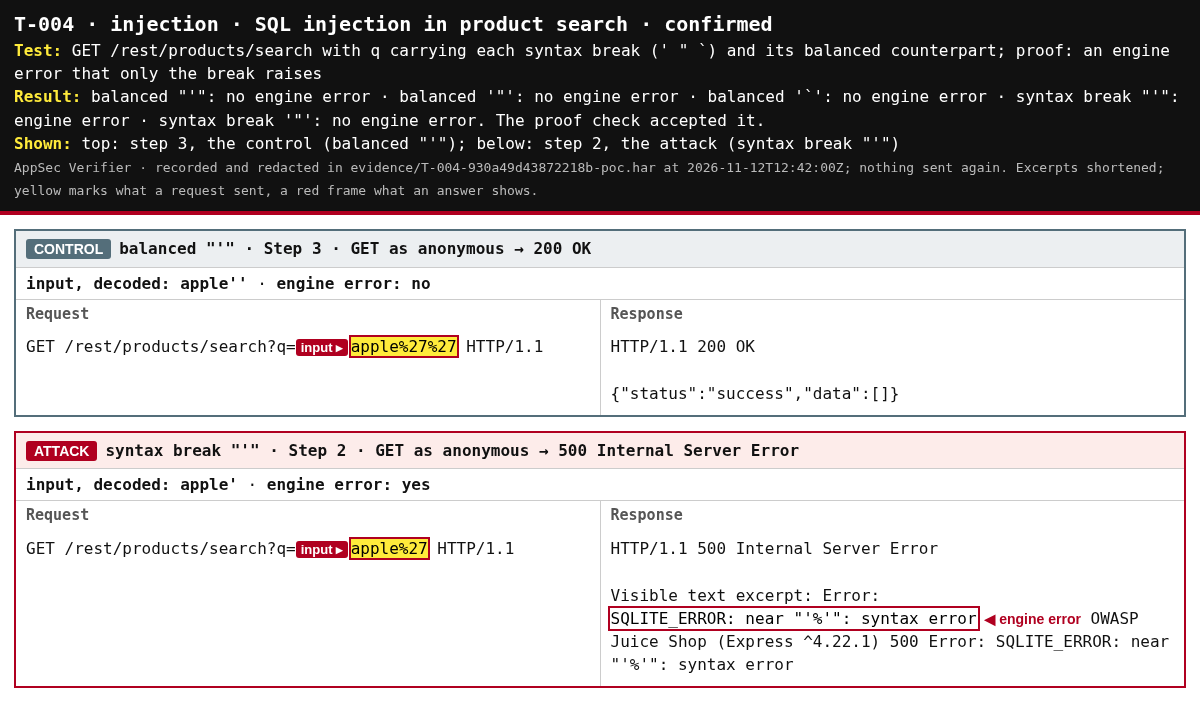
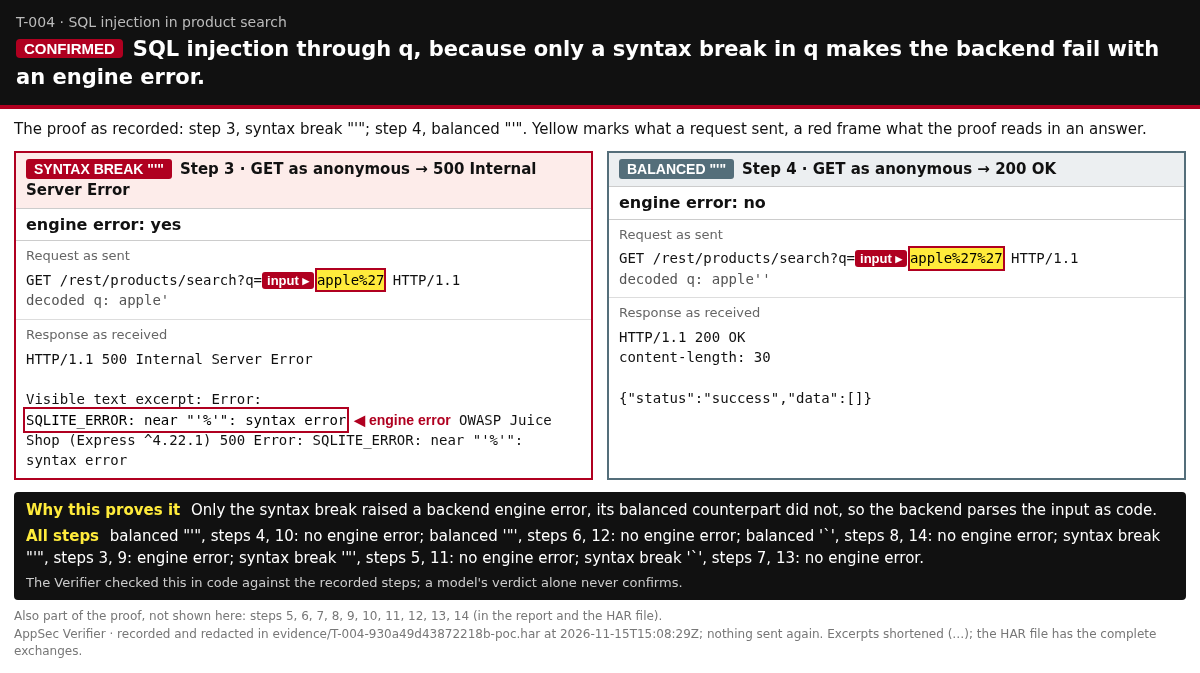
docs: show current evidence images in the README and reword it plainly
"What it verifies" showed the NoSQL injection evidence image in the old
layout. It now shows the Juice Shop SQL injection image in the current
layout (T-004 http-1, replaced in the example result as well) and a
reflected XSS in DVWA: the proof browser's screenshot and the HTTP image,
kept under examples/dvwa/result/evidence/. A sentence and the alt text of
each image say what it shows.

The whole README is reworded in plain sentences: clause chains split,
repeated formulas and internal terms dropped, the request lookup said once.
Limitations names DVWA, against which live runs have been made as well.
That cookie checks can observe form-login responses stays in docs/cli.md.

Why: the README showed an outdated image and read like generated text.

diff --git a/README.md b/README.md
@@ -6,51 +6,57 @@
 [![License](https://img.shields.io/badge/license-Apache%202.0-blue.svg)](LICENSE)
 
 > [!NOTE]
-> **Alpha.** Early version, actively developed. Feedback from real-world projects welcome.
+> **Alpha.** Early version under active development. Feedback from real projects is welcome.
 
 AppSec Verifier tests whether the findings of a static security assessment hold up in the running application. It reads the `appsec-assessment.yaml` written by [AppSec Analyzer](https://github.com/appsec-foundry/appsec-analyzer), tests the selected findings against a target you are authorised to test, and reports for each finding whether the weakness can be reproduced.
 
-An AI agent plans the test steps. The Verifier sends every request itself, only within the scope you define, and counts a finding as confirmed only when the proof passes a check in code. It tests only the findings it is given: it does not search for new weaknesses, chain exploits or extract data.
+An AI agent plans the test steps. The Verifier sends every request itself and stays within the scope you define. A finding counts as confirmed only if its proof passes a check in the Verifier's code. The Verifier tests the findings it is given and does not look for new weaknesses, chain exploits or extract data.
 
 [![Console output of a run against OWASP Juice Shop: the test agent tests a NoSQL injection finding, the proof check passes and the finding is confirmed](examples/juice-shop/result/console-T-033.png)](examples/juice-shop/result/console.log.md)
 
-A run against OWASP Juice Shop: [console log](examples/juice-shop/result/console.log.md), [report](examples/juice-shop/result/verification.md).
+The [console log](examples/juice-shop/result/console.log.md) and the [report](examples/juice-shop/result/verification.md) of this run against OWASP Juice Shop are in the examples.
 
 ## Quick start
 
-You need Python 3.10 or later, [pipx](https://pipx.pypa.io/stable/), an assessment from AppSec Analyzer, and the Claude CLI (`claude`), installed and logged in. Other models are listed under [Model profiles](#model-profiles).
+You need Python 3.10 or later, [pipx](https://pipx.pypa.io/stable/), an assessment from AppSec Analyzer and the Claude CLI (`claude`) with a login. Other models are listed under [Model profiles](#model-profiles).
 
 ```sh
 pipx install git+https://github.com/appsec-foundry/appsec-verifier.git
 appsec-verifier ./out/appsec-assessment.yaml
 ```
 
-The guided run asks for the target URL, shows which findings it can test and what the others still need, and starts after your confirmation. By default it tests findings of severity high and above with the `claude` profile. Each run writes its report to a new private directory, which the run names at its start and end ([Output](#output)).
+The guided run asks for the target URL, shows which findings it can test and what the others still need, and starts after you confirm. By default it tests findings of severity high and above with the `claude` profile. Each run writes its report to a new private directory and prints its path at the start and at the end ([Output](#output)).
 
-XSS findings also need the proof browser ([Install](#install)), access-control comparisons usually need test accounts ([Scope and test accounts](#scope-and-test-accounts)). To try the Verifier, run OWASP Juice Shop locally (`docker run --rm -p 3000:3000 bkimminich/juice-shop`) and use the files in [`examples/juice-shop/`](examples/juice-shop/).
+XSS findings also need the proof browser ([Install](#install)), and access-control tests usually need test accounts ([Scope and test accounts](#scope-and-test-accounts)). To try the Verifier, start OWASP Juice Shop locally with `docker run --rm -p 3000:3000 bkimminich/juice-shop` and use the files in [`examples/juice-shop/`](examples/juice-shop/).
 
 ## What it verifies
 
-The agent takes request details the assessment leaves open from the source code and from forms and links on the target ([test planning](docs/cli.md#test-planning-by-the-agent-ver-043)). A finding counts as `confirmed` only with the proof below; the model's verdict alone never suffices. [How verification works](docs/how-verification-works.md) follows one finding through every step.
+Where the assessment leaves a request or its details open, the agent looks them up in the source code and in the forms and links of the target ([test planning](docs/cli.md#test-planning-by-the-agent-ver-043), [request derivation](docs/cli.md#continuous-control-ver-036)). A finding counts as `confirmed` only with the proof in the table below; the model's verdict is never enough on its own. [How verification works](docs/how-verification-works.md) follows one finding through every step.
 
 | Weakness | Confirmed when |
 | --- | --- |
 | Cross-site scripting | a marker script runs in the proof browser; reflected text does not count |
-| Access control: IDOR, missing authorisation or authentication, exposed information and files | a checked access comparison violates an independently declared restriction; matching responses alone do not suffice |
-| SQL, NoSQL and LDAP injection | the response follows true and false conditions the Verifier generates (a field, a page text or a login), an injected marker comes back (SQL), or a malformed input provokes a database error (SQL, NoSQL); a delay alone never counts |
-| Command, code, template and XPath injection | the target returns the result of arithmetic the Verifier generates, a malformed input provokes an engine error (not for commands), or, for code and template injection, the payload makes the target call a callback listener |
+| Access control: IDOR, missing authorisation or authentication, exposed information and files | a checked access comparison breaks an independently declared restriction; matching responses are not enough |
+| SQL, NoSQL and LDAP injection | the response follows true and false conditions the Verifier generates (in a field, a page text or a login), an injected marker comes back (SQL), or a malformed input causes a database error (SQL, NoSQL); a delay is never enough |
+| Command, code, template and XPath injection | the target returns the result of a calculation the Verifier generates, a malformed input causes an engine error (not for commands), or, for code and template injection, the payload makes the target call a callback listener |
 | Path traversal | the target returns the scope's marker file, or a file from an uploaded ZIP can be read outside the directory it is unpacked to |
 | Open redirect | the target redirects to a random host under `.invalid` |
 | SSRF | the target calls a callback listener |
 | Session cookie without Secure, HttpOnly or SameSite | the session cookie repeatedly lacks the attribute (SameSite: Lax or Strict) |
 
-Some classes need preparation: XSS the proof browser, access control test accounts and an access restriction, declared in the scope or taken from the findings with `--accept-finding-restrictions`, SSRF and blind injection a listener the target can reach (started automatically for a `localhost` target), path traversal a marker file, session cookies the cookie's name in the scope. The guided run can collect access declarations for this run; `preflight` names missing preparation. Declared anonymous exposure needs no reference account, cookie checks can observe form-login responses, and login-bypass injection needs a protected follow-up resource. The exact rules are in [Proof per class](docs/cli.md#proof-per-class-ver-009-to-ver-013), the CWEs of each class in [`data/verifiable-cwes.yaml`](data/verifiable-cwes.yaml).
+Some classes need preparation. XSS needs the proof browser. Access-control tests need test accounts and an access restriction, declared in the scope or taken from the findings with `--accept-finding-restrictions`; a declared anonymous exposure needs no account. SSRF and blind injection need a listener the target can reach, which starts automatically for a `localhost` target. Path traversal needs a marker file. Session-cookie checks need the cookie's name in the scope, and login-bypass injection a protected resource to try the obtained login on. The guided run can collect access declarations for the run; `preflight` reports what is still missing. The exact rules are in [Proof per class](docs/cli.md#proof-per-class-ver-009-to-ver-013), the CWEs of each class in [`data/verifiable-cwes.yaml`](data/verifiable-cwes.yaml).
 
-The agent can resolve missing requests from recorded source and application evidence, including browser request workflows and literal page includes ([request derivation](docs/cli.md#continuous-control-ver-036)); the report shows the requests each verdict rests on. The evidence image of the NoSQL injection above:
+The report shows the requests each verdict rests on. The evidence images show the recorded requests and responses and mark the parts the proof depends on. In this SQL injection in Juice Shop, a single quote in the search parameter `q` causes a database error and two quotes do not:
 
-![Evidence image of the NoSQL injection finding: the false condition returns 0 review entries, the true condition 2](examples/juice-shop/result/evidence/T-033-c23d5ea977c2e5ab-nosql-injection-in-product-reviews-where-http-1.png)
+![Evidence image of a SQL injection in OWASP Juice Shop: q=apple' gets status 500 with an SQLITE_ERROR, q=apple'' gets 200 with an empty result](examples/juice-shop/result/evidence/T-004-930a49d43872218b-sql-injection-in-product-search-http-1.png)
 
-Each finding ends with one of these verdicts. A negative verdict covers only the request and variant that were tested; different variants continue after a confirmation.
+The two images of a reflected XSS in DVWA come from separate runs. The first is the proof browser's screenshot. The injected script opened a dialog, which the Verifier draws in from the recorded `alert()` call because browser dialogs do not appear in screenshots. The second shows the request with the script in the `name` parameter and the response that contains it unescaped.
+
+![Screenshot of a reflected XSS in DVWA: the dialog shows the marker the injected script assembled at runtime, and the element holding the payload is framed](examples/dvwa/result/evidence/T-001-d55fa17ca0781db4-reflected-xss-from-unescaped-output.png)
+
+![Evidence image of a reflected XSS in DVWA: the GET request carries a script in name, the response contains it unescaped, and the script ran in the proof browser](examples/dvwa/result/evidence/T-001-f36fb935b55957ee-reflected-xss-from-unescaped-output-http-1.png)
+
+Each finding gets one of these verdicts. A negative verdict applies only to the request and variant that were tested. After one variant of a finding is confirmed, its other variants are still tested within the run's limits.
 
 | Verdict | Meaning |
 | --- | --- |
@@ -62,18 +68,18 @@ Each finding ends with one of these verdicts. A negative verdict covers only the
 
 ## Safety
 
-`verify` sends attack requests to a running system. These rules are enforced in code, not left to the model:
+`verify` sends attack requests to a running system. The Verifier's code enforces the following rules, and the model cannot change them:
 
-- Only the hosts, ports, paths and schemes in the scope are contacted, only within its test period, and never cloud metadata addresses.
+- The Verifier contacts only the hosts, ports, paths and schemes in the scope, only during its test period, and never cloud metadata addresses.
 - The run shows its test plan and waits for your confirmation before the first request.
-- Only GET, HEAD and OPTIONS by default. Write requests, needed for stored XSS and some access-control tests, require `--allow-intrusive` or your yes in the terminal; DELETE is never sent. Records the Verifier creates stay on the target, so allow writes only on an instance you can reset.
-- Requests, request rate, model calls, cost and run time are capped ([defaults](data/limits.yaml)); all variants and reviews of a finding share its cost allowance.
+- By default only GET, HEAD and OPTIONS are sent. Write requests, which stored XSS and some access-control tests need, require `--allow-intrusive` or your yes in the terminal. DELETE is never sent. Records the Verifier creates stay on the target, so allow writes only on an instance you can reset.
+- Requests, request rate, model calls, cost and run time have limits ([defaults](data/limits.yaml)). The variants and reviews of a finding share one cost allowance.
 - Passwords and tokens come from environment variables or hidden input. They are not stored and never reach the model, the logs or the report.
-- The agent proposes one step at a time, and the Verifier checks each step before it runs it. The agent has no shell and cannot write files; with `--source` it reads the target's source code, but not `.env` files, keys or `.git/`. It sees the target's responses and screenshots, which can contain target data.
+- The agent proposes one step at a time, and the Verifier checks each step before running it. The agent has no shell and cannot write files. With `--source` it reads the target's source code, except `.env` files, keys and `.git/`. It does see the target's responses and screenshots, which can contain target data.
 
 ## Scope and test accounts
 
-Without a scope file the Verifier tests only the scheme, host and port of the target URL, read-only. A scope file allows more, such as several hosts, private networks or a proxy, and records the test period and who is responsible. The guided run uses a `scope.yaml` next to the assessment or in the working directory; `--scope` names another.
+Without a scope file the Verifier tests only the scheme, host and port of the target URL, read-only. A scope file allows more, such as several hosts, private networks or a proxy, and records the test period and who is responsible. The guided run uses a `scope.yaml` next to the assessment or in the working directory; `--scope` points to a different one.
 
 ```yaml
 # scope.yaml
@@ -83,9 +89,9 @@ window: {from: "2026-11-01T00:00:00Z", until: "2026-11-30T23:59:59Z"}
 owner: {name: Your Name}
 ```
 
-For an HTML login form or a login that answers a JSON POST with a token, name the accounts on the command line, for example `--account jim@juice-sh.op --account bender@juice-sh.op`; the Verifier asks for the passwords with hidden input and, without `--login-url`, signs in at the login the assessment names or the login form the target URL leads to. Other logins go into an `identities.yaml` that names environment variables, never the passwords themselves: bearer token, basic, form login, headers copied from the browser, OIDC (sign-in in your browser, device code, client credentials, password grant) or a login program.
+If the target has an HTML login form or a login that returns a token for a JSON POST, name the accounts on the command line, for example `--account jim@juice-sh.op --account bender@juice-sh.op`. The Verifier asks for the passwords with hidden input. Without `--login-url` it signs in at the login the assessment names or at the login form the target URL leads to. Other kinds of login go into an `identities.yaml`, which names environment variables and never contains the passwords themselves. It supports bearer tokens, basic authentication, form login, headers copied from the browser, OIDC (sign-in in your browser, device code, client credentials, password grant) and login programs.
 
-Reference: [scope file](docs/cli.md#scope-file--scopeyaml-authorisation-ver-001), [identities file](docs/cli.md#identities-file--identitiesyaml-sessions-ver-016028040), [accounts on the command line](docs/cli.md#test-accounts-on-the-command-line-ver-041). Examples: [`juice-shop/`](examples/juice-shop/) (local target, form login), [`sso-proxy/`](examples/sso-proxy/) (target behind a company proxy, SSO sign-in in the browser), [`login-program/`](examples/login-program/) (form with a CSRF token).
+Details: [scope file](docs/cli.md#scope-file--scopeyaml-authorisation-ver-001), [identities file](docs/cli.md#identities-file--identitiesyaml-sessions-ver-016028040), [accounts on the command line](docs/cli.md#test-accounts-on-the-command-line-ver-041). Examples: [`juice-shop/`](examples/juice-shop/) (local target, form login), [`sso-proxy/`](examples/sso-proxy/) (target behind a company proxy, SSO sign-in in the browser), [`login-program/`](examples/login-program/) (form with a CSRF token).
 
 ## Model profiles
 
@@ -101,7 +107,7 @@ Choose the model with `--profile`, as in AppSec Analyzer.
 
 The CLIs run without tools, MCP servers, settings or session history. Using a subscription is subject to the provider's terms for that plan.
 
-The console shows model costs with API billing, including reported prompt-cache reads and writes; see [caching and costs](docs/cli.md#output-mode-and-run-mode). With a Claude subscription, `--show-costs` shows what the calls would cost at API prices; this does not change the cost limit. Prices: [`data/model-catalog.yaml`](data/model-catalog.yaml) (OpenAI), [`data/anthropic-model-catalog.yaml`](data/anthropic-model-catalog.yaml) (Anthropic API).
+With API billing the console shows the model costs, including the prompt-cache reads and writes the provider reports ([caching and costs](docs/cli.md#output-mode-and-run-mode)). With a Claude subscription, `--show-costs` shows what the calls would cost at API prices; it does not change the cost limit. The prices are in [`data/model-catalog.yaml`](data/model-catalog.yaml) for OpenAI and in [`data/anthropic-model-catalog.yaml`](data/anthropic-model-catalog.yaml) for the Anthropic API.
 
 ## Commands
 
@@ -115,7 +121,7 @@ The console shows model costs with API billing, including reported prompt-cache 
 | `runs` | Lists earlier runs written without `--output` and removes the ones you name or older ones after you confirm. |
 | `update` | Updates a pipx installation after you confirm. |
 
-Select findings with `--category` (for example `xss`, `idor`, `sqli`), `--severity`, `--min-severity` or `--only <id>`. A severity selection also tests some findings below it, such as XSS and SQL injection findings that are cheap to confirm ([details](docs/cli.md#select-what-to-verify-ver-026)); `--strict-severity` leaves them out. The run tests the selected findings category by category, such as all XSS findings and then all SQL injection findings, and the console and the report show them the same way. All options are in [`docs/cli.md`](docs/cli.md) and in `appsec-verifier <command> --help`.
+Select findings with `--category` (for example `xss`, `idor`, `sqli`), `--severity`, `--min-severity` or `--only <id>`. A severity selection also includes some findings below it that are cheap to confirm, such as XSS and SQL injection ([details](docs/cli.md#select-what-to-verify-ver-026)); `--strict-severity` leaves them out. The run tests one category at a time, for example all XSS findings and then all SQL injection findings, and the console and the report are grouped the same way. All options are in [`docs/cli.md`](docs/cli.md) and in `appsec-verifier <command> --help`.
 
 ### Run without questions (CI)
 
@@ -132,14 +138,14 @@ appsec-verifier verify --non-interactive --yes --profile claude \
 
 `verify` writes to `--output` or, without it, to a new private directory for each run, e.g. `~/.local/share/appsec-verifier/runs/<project>/<start time>/` on Linux ([details](docs/cli.md#outputs)):
 
-- `verification.md`: the report, with verdict, confidence and evidence per finding, and the proof of concept: the requests the verdict rests on as raw HTTP, with the parts the test agent chose to show what the attacker sent and obtained, each checked against the record, and for UI findings a screenshot of the exploit or its effect.
+- `verification.md`: the report. For each finding it gives the verdict, the confidence, the evidence and a proof of concept. The proof of concept shows the requests the verdict rests on as raw HTTP. The test agent picks the parts that show what the attacker sent and got back, and the Verifier checks each of them against the record. UI findings also get a screenshot of the exploit or its effect.
 - `verification.yaml`: the same results as data ([schema](schemas/verification.schema.yaml)).
 - `agent-log.jsonl`: every step of the agent, refused steps included.
 - `failed-findings.json`, only when the test of a finding failed: its model calls and the error, to find the cause yourself or with a model.
-- `evidence/`: the recorded requests and responses of each finding (`<finding>-poc.har`) and the screenshots; `--screenshots` chooses the classes. They can show target data, so check them before sharing.
+- `evidence/`: the recorded requests and responses of each finding (`<finding>-poc.har`), the screenshots and the evidence images; `--screenshots` chooses the classes that get images. They can show target data, so check them before sharing.
 - `console.log`, with `--console-log`: what the run printed ([console output](docs/cli.md#console-output)).
 
-Ctrl-C stops the run and still writes the report. `--resume` continues a run that did not finish, without `--output` the newest one for the same assessment and target, and a report already in `--output` is replaced only with `--overwrite`. `--annotate` also writes copies of the assessment and of the Analyzer's Markdown report with the verdict, the rating after verification and the proof of concept of each tested finding.
+Ctrl-C stops the run and still writes the report. `--resume` continues a run that did not finish; without `--output` it takes the newest run for the same assessment and target. A report already in `--output` is replaced only with `--overwrite`. `--annotate` also writes copies of the assessment and of the Analyzer's Markdown report that add the verdict, the rating after verification and the proof of concept of each tested finding.
 
 ## Install
 
@@ -151,7 +157,7 @@ pipx inject appsec-verifier 'anthropic>=0.87,<1'   # only for --profile anthropi
 
 The proof browser uses the installed Google Chrome and starts it without network access, which needs Linux with `unshare` (util-linux) and unprivileged user namespaces. Elsewhere XSS findings cannot be confirmed. For the CLI profiles, install the CLI and log in (`claude`, `codex login`, `copilot login`).
 
-`appsec-verifier update` reinstalls from the source you installed from after you confirm. Like a new install, it takes the newest dependency versions allowed ([details](docs/cli.md#update--update-the-installed-verifier-ver-033)). To install from a checkout with every package pinned and hash-checked in [`requirements.lock`](requirements.lock), the proof browser and the `anthropic` SDK included:
+After you confirm, `appsec-verifier update` reinstalls from the source you installed from. Like a fresh install, it takes the newest dependency versions allowed ([details](docs/cli.md#update--update-the-installed-verifier-ver-033)). To install from a checkout with every package pinned and hash-checked in [`requirements.lock`](requirements.lock), including the proof browser and the `anthropic` SDK:
 
 ```sh
 python3 -m venv .venv
@@ -159,13 +165,13 @@ python3 -m venv .venv
 .venv/bin/pip install --no-deps --no-build-isolation .
 ```
 
-The [Dockerfile](Dockerfile) builds an image that runs one command with Docker, with the API profiles and Claude CLI but without the proof browser. See [Run the Verifier in a container](docs/container.md).
+The [Dockerfile](Dockerfile) builds an image that runs a single Verifier command. It includes the API profiles and the Claude CLI, but not the proof browser; see [Run the Verifier in a container](docs/container.md).
 
 ## Limitations
 
 - A confirmed finding shows that the tested step works, not that a complete attack chain does.
-- Live runs, the proof browser included, have been made only against a local OWASP Juice Shop with the `claude` profile. The `codex-cli` and `copilot-cli` profiles have been tested only with simulated answers.
-- Boolean injection checks need a response field or page text that differs between the true and false condition. The agent can correct the selected observation using recorded answers; very large pages can exceed the recording limit and stay inconclusive.
+- Live runs, the proof browser included, have been made only against local instances of OWASP Juice Shop and DVWA with the `claude` profile. The `codex-cli` and `copilot-cli` profiles have been tested only with simulated answers.
+- Boolean injection checks need a response field or page text that differs between the true and the false condition. If the agent picked the wrong one, it can choose another from the recorded responses. Very large pages can exceed the recording limit, and such findings stay inconclusive.
 - Custom request headers and browser interactions such as clicks are not supported; findings that need them are shown as untestable.
 - Path-traversal and SSRF checks decode percent-encoding, but no other encodings.
 - A sign-in in the browser works when the application's API accepts the identity provider's token. An application that keeps its own session cookie after SSO needs a copied session or a login program. Copied sessions are not renewed during a run.
